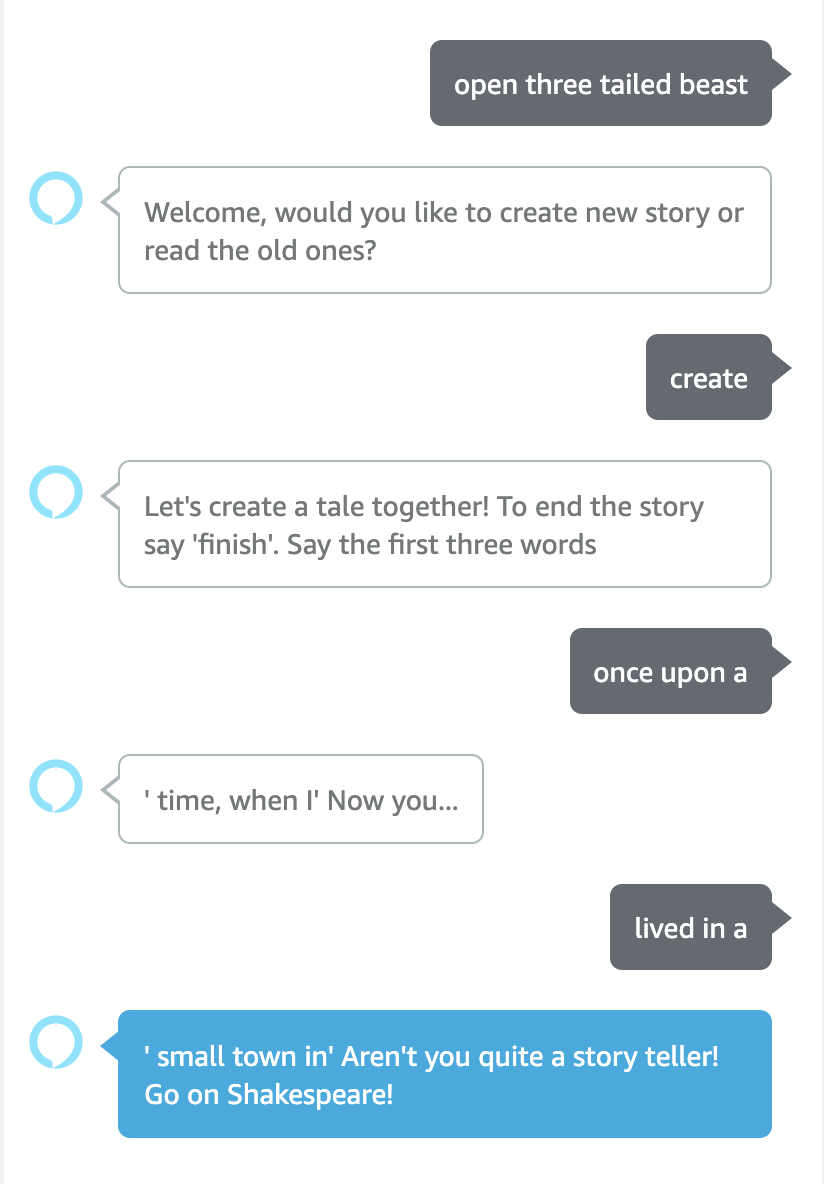
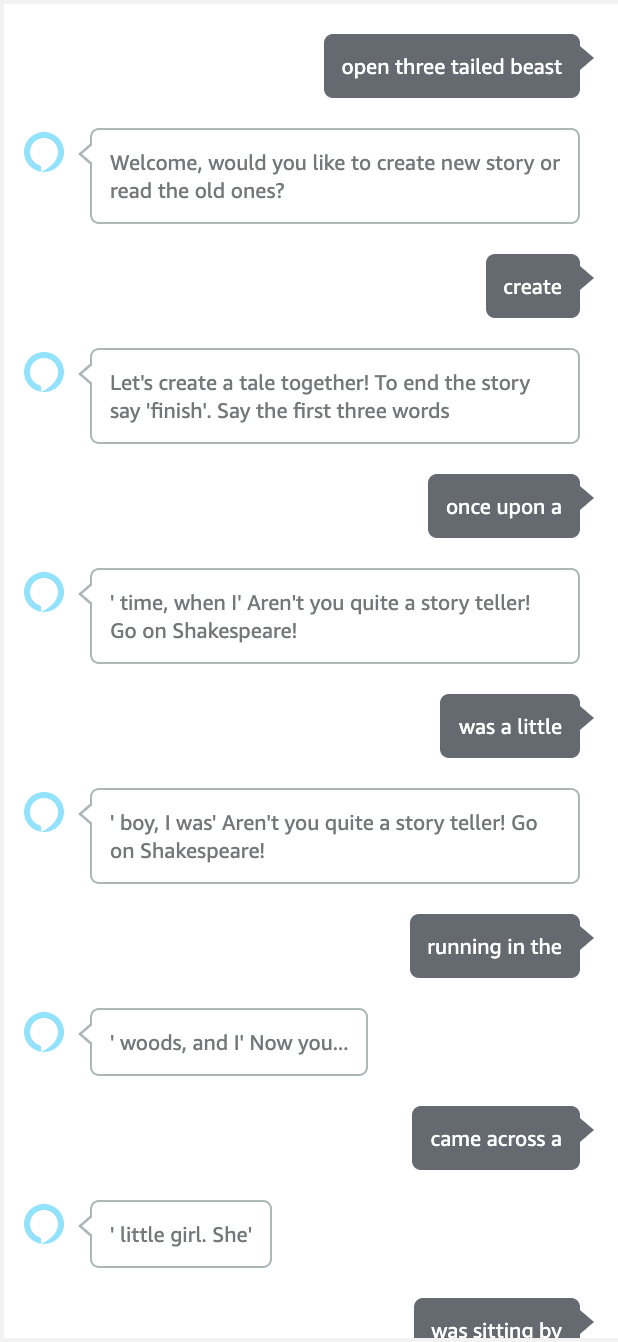
Add alexa example2

diff --git a/README.MD b/README.MD
@@ -4,7 +4,7 @@
 DL based interactive Alexa skill. You create a story with Alexa by taking turns and saying three words on each turn.
 
 ### Alexa examples
-![alt text](resources/alexa_example1.png)
+![alt text](resources/alexa_example1.png) | ![alt text](resources/alexa_example2.png)
 
 ### Alexa skill instructions
 * Create s3 bucket and replace BUCKET_NAME in `constants.py` with your bucket name.
